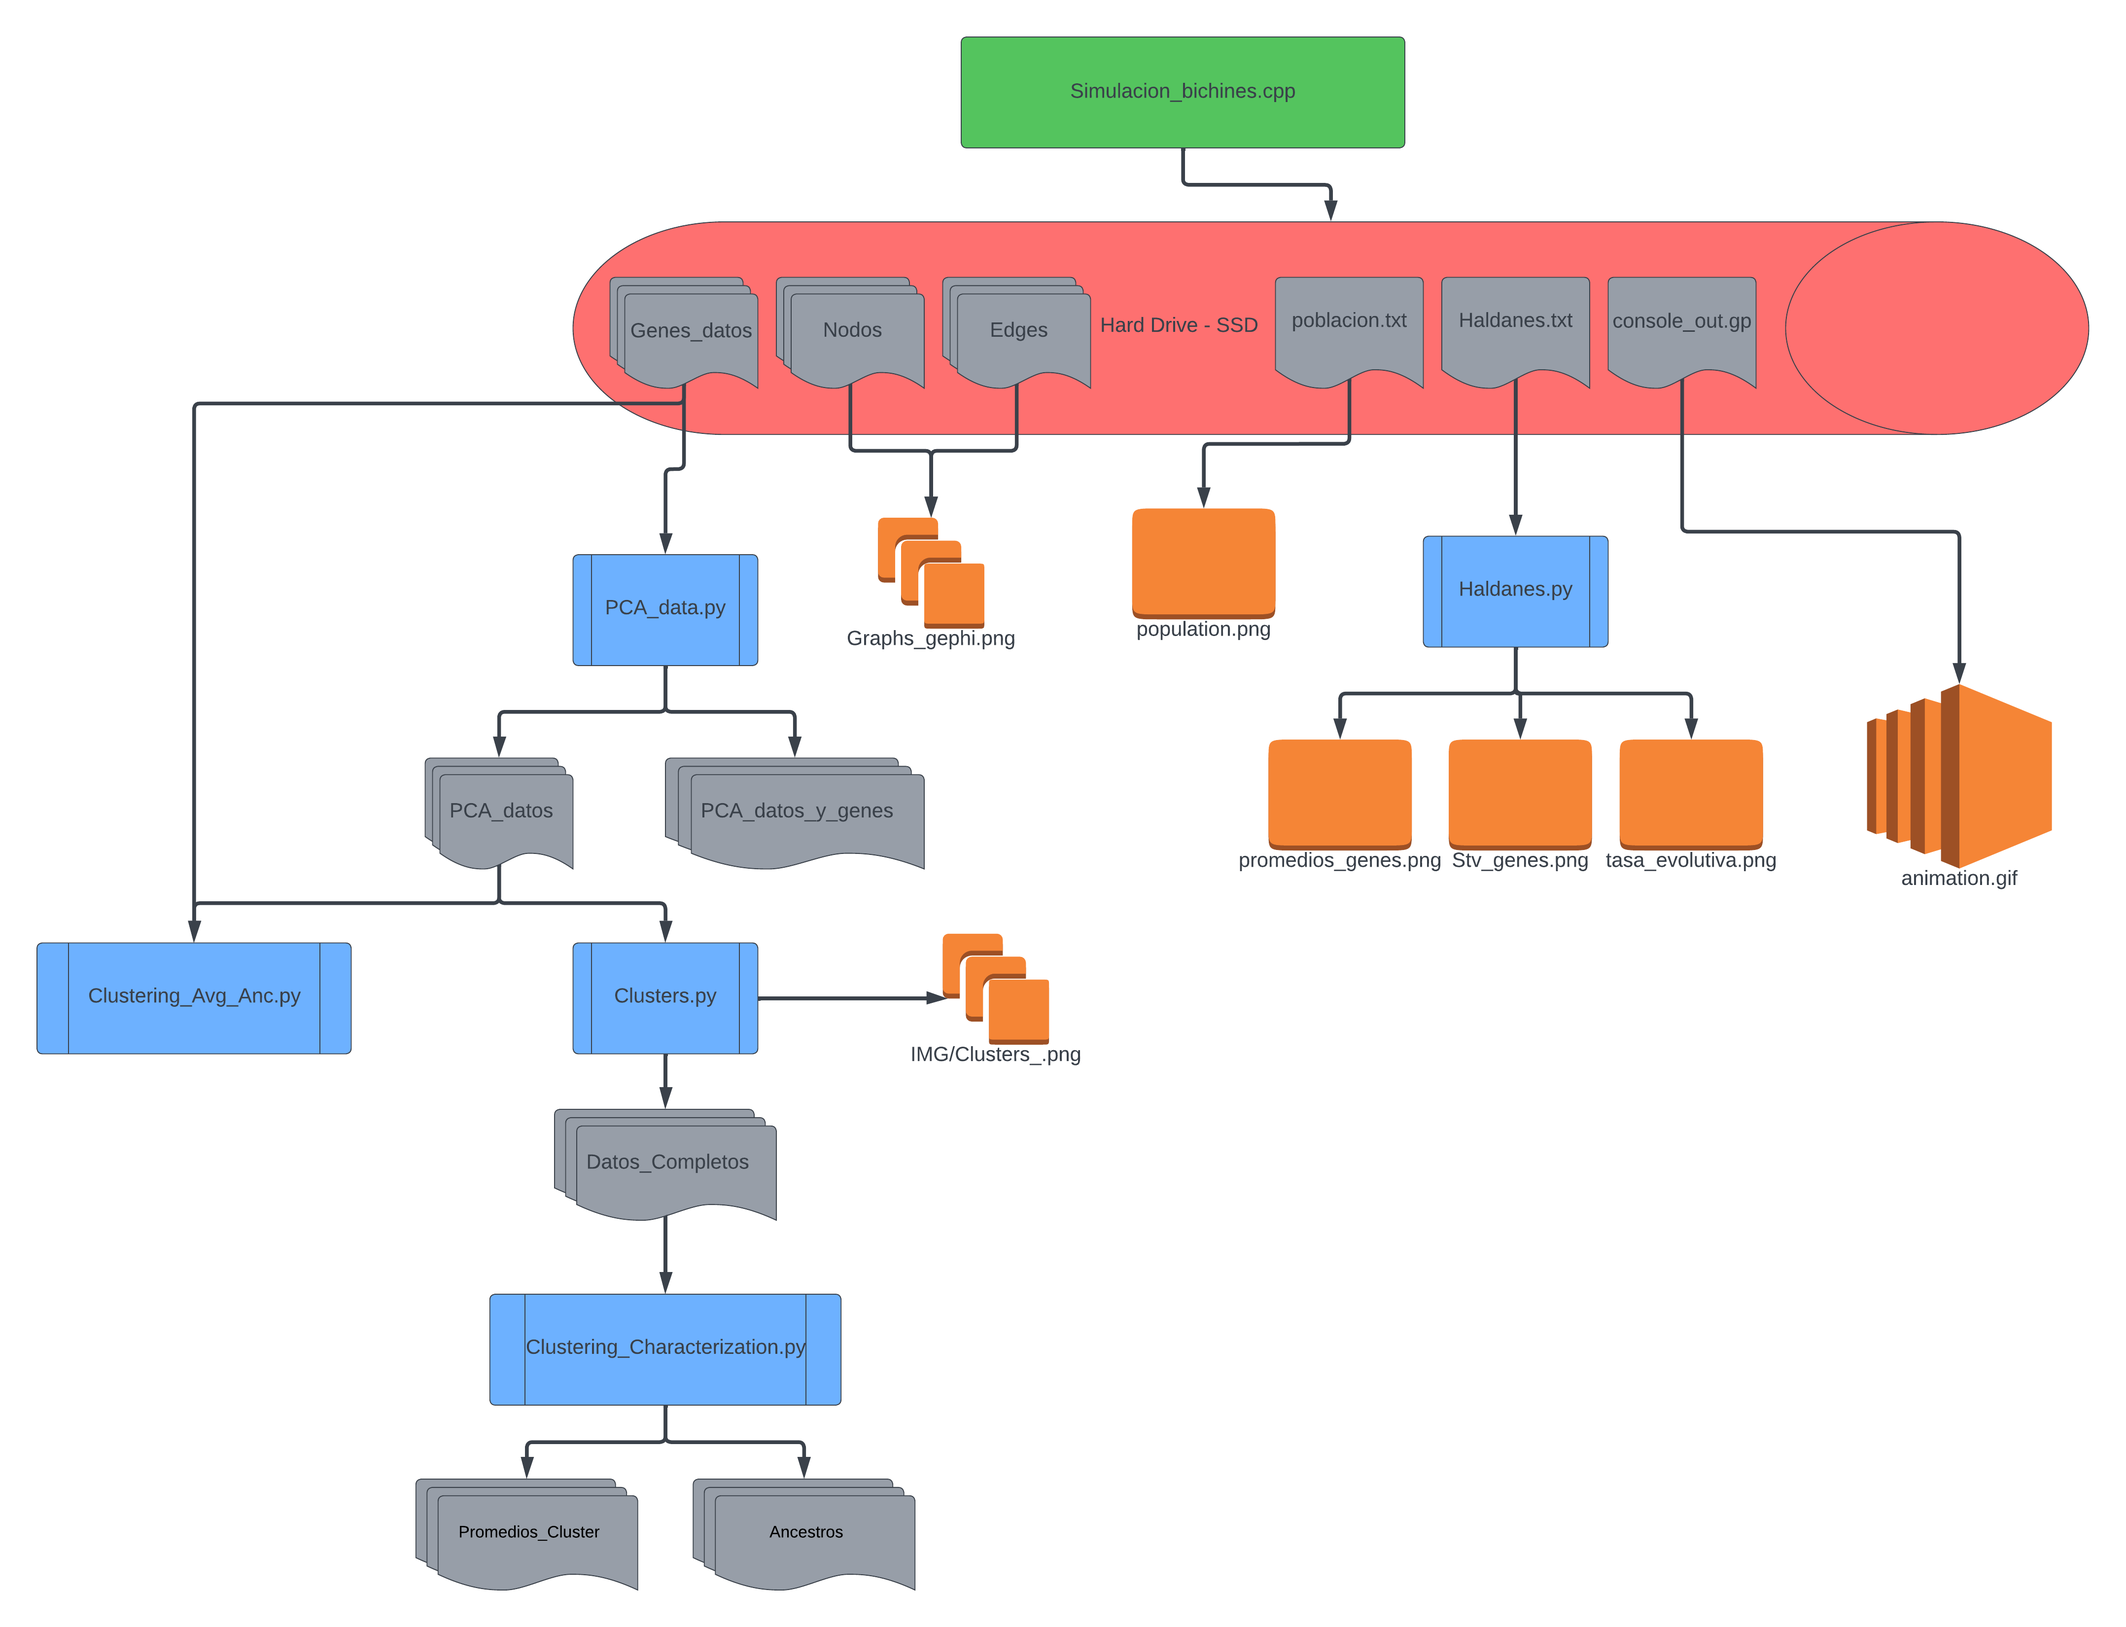
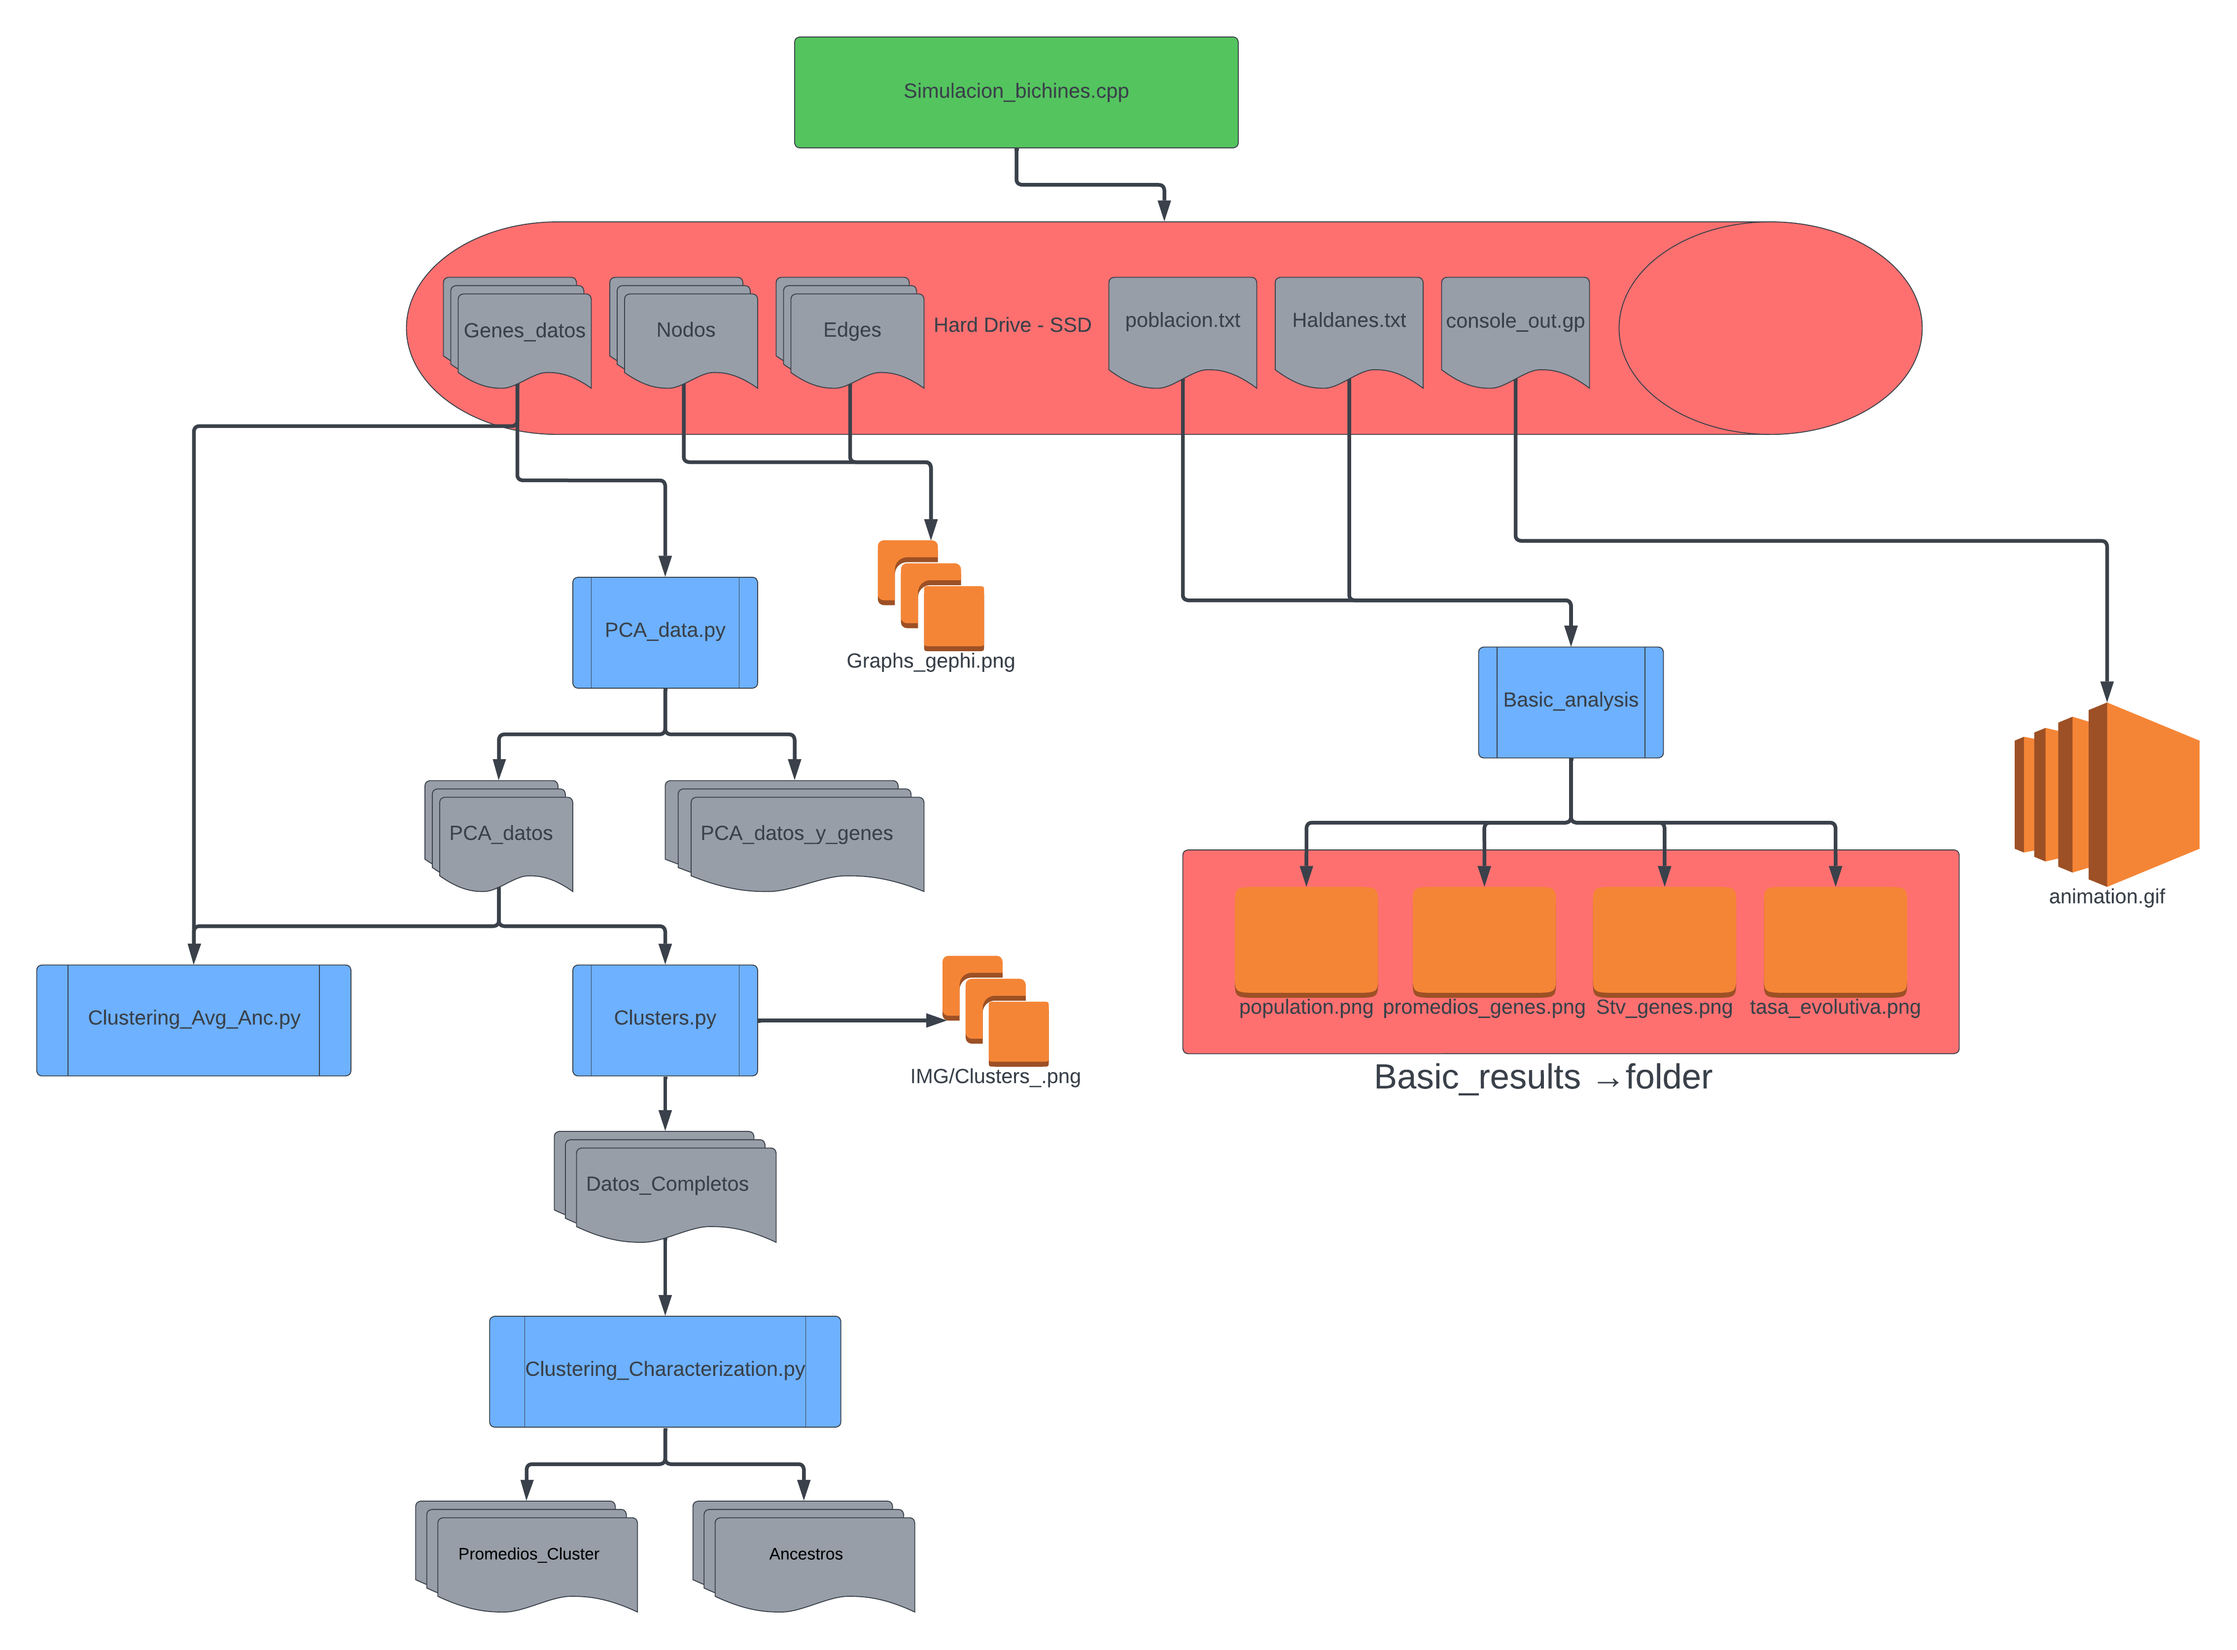
Haldanes into Basic analysisc
Refactored the haldanes code to also make the population graph. Also made it so the result of basic analysis are stored in basic_results. Updated flowchart accordingly

diff --git a/BICHIN_exe_pack/Basic_analysis.py b/BICHIN_exe_pack/Basic_analysis.py
@@ -1,0 +1,75 @@
+import numpy as np
+import math as m
+import matplotlib.pylab as plt
+
+output_folder='Basic_results/'
+
+data=np.loadtxt('Haldanes.txt')
+
+
+standart_d=[] #standard deviation
+prom=[]
+time=data[:,0]
+pop=data[:,1]
+for gene in range(8):
+	prom.append(data[:,2*gene+2])
+	standart_d.append(data[:,2*gene+3])
+
+proms=np.array(prom)
+Sd=np.array(standart_d)
+
+def Haldanes(time,proms,sd,gene):
+	Sd_pooled=[]
+	for t in range(len(time)-1):
+		q=((pop[t]-1)*Sd[gene,t]-(pop[t+1]-1)*Sd[gene,t+1])/(pop[t]+pop[t+1])
+		Sd_pooled.append(q)
+	H=[]
+	for t in range(len(time)-1):
+		q2=(m.log(proms[gene,t+1])-m.log(proms[gene,t]))/(Sd_pooled[t]*(time[t+1]-time[t]))
+		H.append(q2)
+	
+	return H
+
+
+
+
+
+for gene in range(8):
+	plt.plot(time,proms[gene],label=str(gene)+' gene')
+	
+plt.xlabel('Time (clicks)')
+plt.ylabel('Proportion of the gene in the genoma (%)')
+plt.title('Evolution of the genomic distribution over time ')
+plt.legend()
+plt.savefig(output_folder+'promedios_genes.png',bbox_inches='tight')
+plt.clf()
+plt.close()
+
+for gene in range(8):
+	plt.plot(time,Sd[gene],label=str(gene)+' gene')
+plt.xlabel('Time (clicks)')
+plt.ylabel('Std deviation of the genes (u)')
+plt.title('Evolution of the genomic distribution over time ')
+plt.legend()
+plt.savefig(output_folder+'Stv_genes.png',bbox_inches='tight')
+plt.clf()
+plt.close()
+
+Hal_data=Haldanes(time,proms,Sd,1)
+
+time_h=time[1:]
+plt.plot(time_h,Haldanes(time,proms,Sd,0))
+plt.xlabel('Time (clicks)')
+plt.ylabel('Computed Haldanes (u)')
+plt.savefig(output_folder+'tasa_evolutiva.png',bbox_inches='tight')
+plt.close()
+
+
+population=np.loadtxt('population.txt')[:,1]
+
+plt.plot(np.arange(len(population)),population.T)
+plt.xlabel('Time (clicks)')
+plt.ylabel('Population')
+plt.savefig(output_folder+'population2.png',bbox_inches='tight')
+plt.clf()
+plt.close()

diff --git a/BICHIN_exe_pack/Simulacion_Bichines.cpp b/BICHIN_exe_pack/Simulacion_Bichines.cpp
@@ -33,7 +33,7 @@ const int selec = 0; 					// Permite que todos los genes inicien con las mismas 
 
 
 
-int TMAX=10000;
+int TMAX=1000;
 int rand_seed=1;
 int data_tick=100;
 void handleFlags(int argc, char *argv[]) {
@@ -79,7 +79,14 @@ void displayProgressBar(float progress, int barWidth = 50, std::string line="=",
 		std::cout << "] " << static_cast<int>(progress * 100.0)<< "%\r  "+std::to_string(total);
 		std::cout.flush();
 	}	
-
+void write_config(std::string name)
+	{
+		std::ofstream config;
+		config.open(name);
+		config <<"TMAX,data_tick,food_dis,Biome_energy,E_incial,E_gordo\n";
+		config <<TMAX<<","<<data_tick<<","<<food_dis<<","<<Biome_energy<<","<<E_inicial<<","<<E_gordo<<"\n";
+		config.close();
+	}
 
 
 
@@ -661,10 +668,14 @@ int main(int argc, char **argv)
 	{	
 
 		handleFlags(argc, argv);
-	
+
+		write_config("config.csv");
+
+
 		salida.open("console_out.gp");
-		grafica.open("poblacion.txt");
+		grafica.open("population.txt");
 		Hald.open("Haldanes.txt");
+
 		
 		Bichin Bichitos[Ni]; 							//Array de bichines con numero maximo de bichines
 		Food food[Nfood];  								//Array de food con numero maximo de food

diff --git a/BICHIN_exe_pack/PCA_Data.py b/BICHIN_exe_pack/PCA_Data.py
@@ -5,10 +5,9 @@ from sklearn import preprocessing
 import matplotlib.pylab as plt
 import sys 
 
-	
-TMAX=int(sys.argv[1])
-
-tick=100
+df = pd.read_csv('config.csv')
+TMAX=df['TMAX'][0]
+tick=df['data_tick'][0]
 
 pca=PCA(n_components=3) #objeto PCA
 data2=pd.read_csv(f'Genes_datos/genes_{TMAX-tick}.csv', header = None)

diff --git a/BICHIN_exe_pack/3.py b/BICHIN_exe_pack/3.py
@@ -1,0 +1,8 @@
+import pandas as pd
+
+# Load the CSV data into a pandas DataFrame
+df = pd.read_csv('config.csv')
+TMAX=df['TMAX'][0]
+# Print the DataFrame to see its contents
+print(df)
+print(TMAX)

diff --git a/README.md b/README.md
@@ -72,7 +72,7 @@ As with a real ecosystem there is a carrying capacity and this is the real varia
 <p align="center">
   <img src="Resultados\Capacidad de Carga\poblacional_distintas_biomasas_Uniforme-1.png" alt="Map of the simulation" width="500"/>
 </p>
-This graph is of population as a function of time while changing the total biomass of the system. [Go to section](#Stability)
+This graph is of population as a function of time while changing the total biomass of the system.
 
 
 
